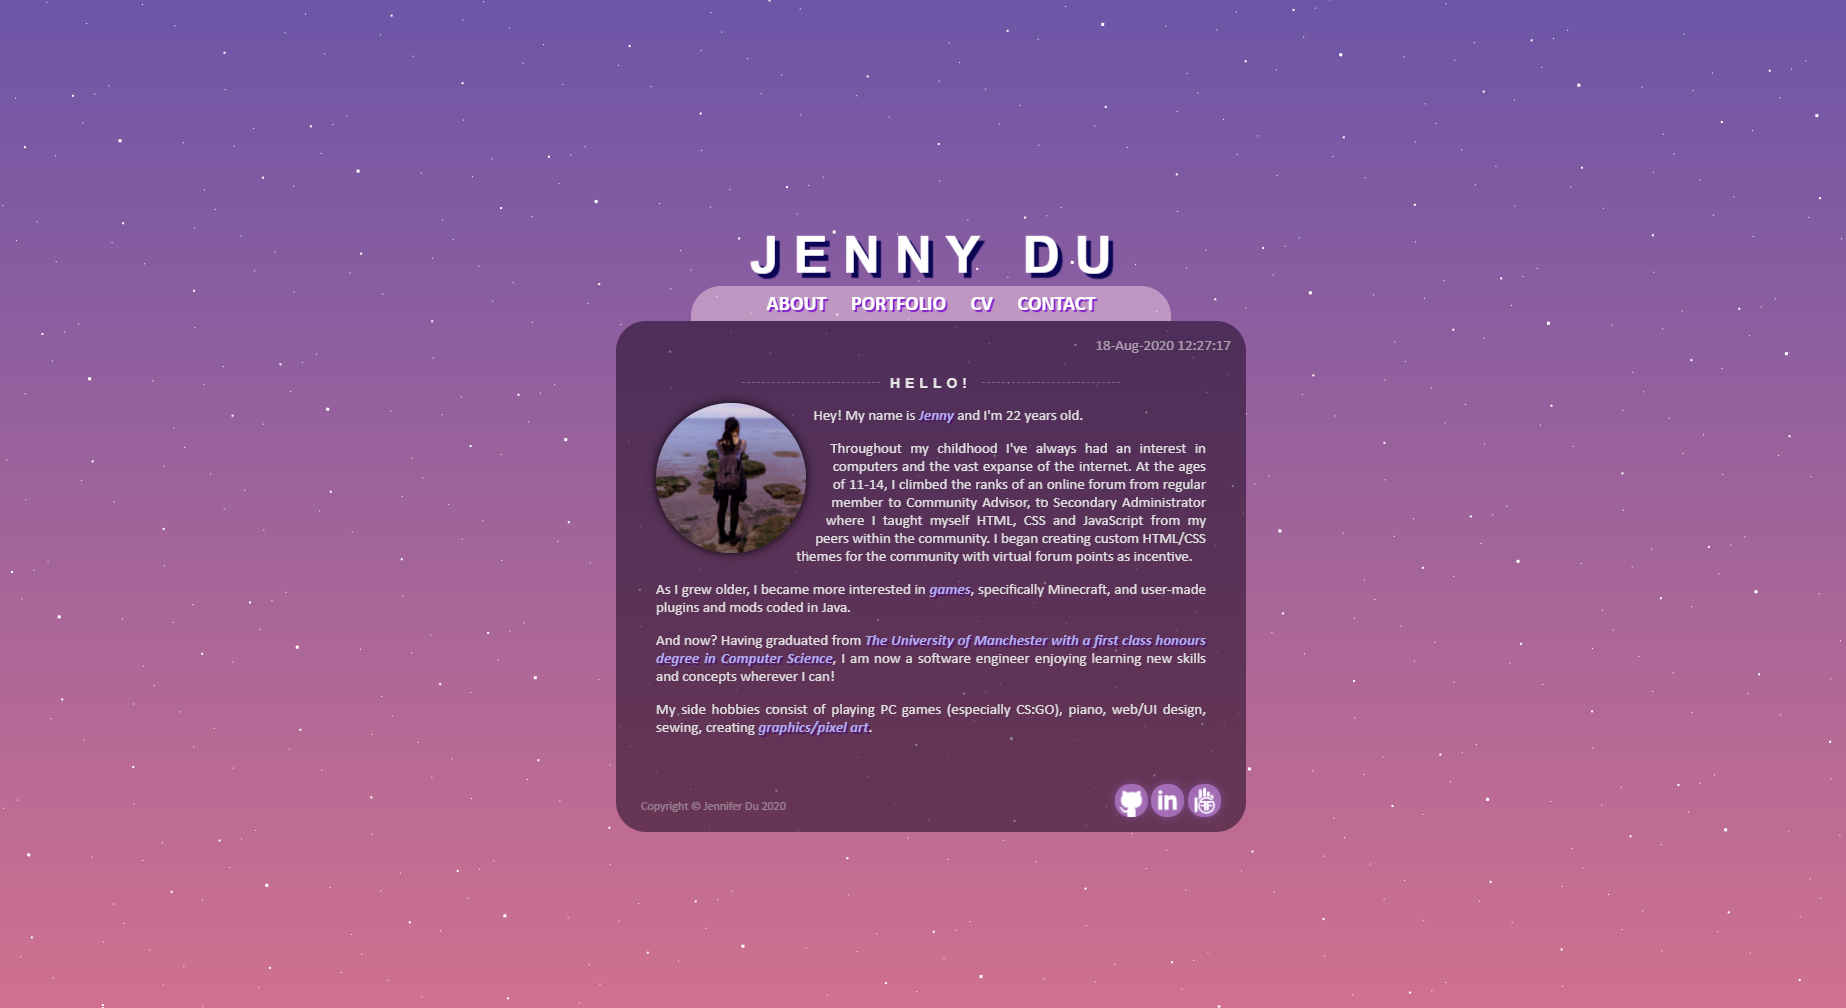
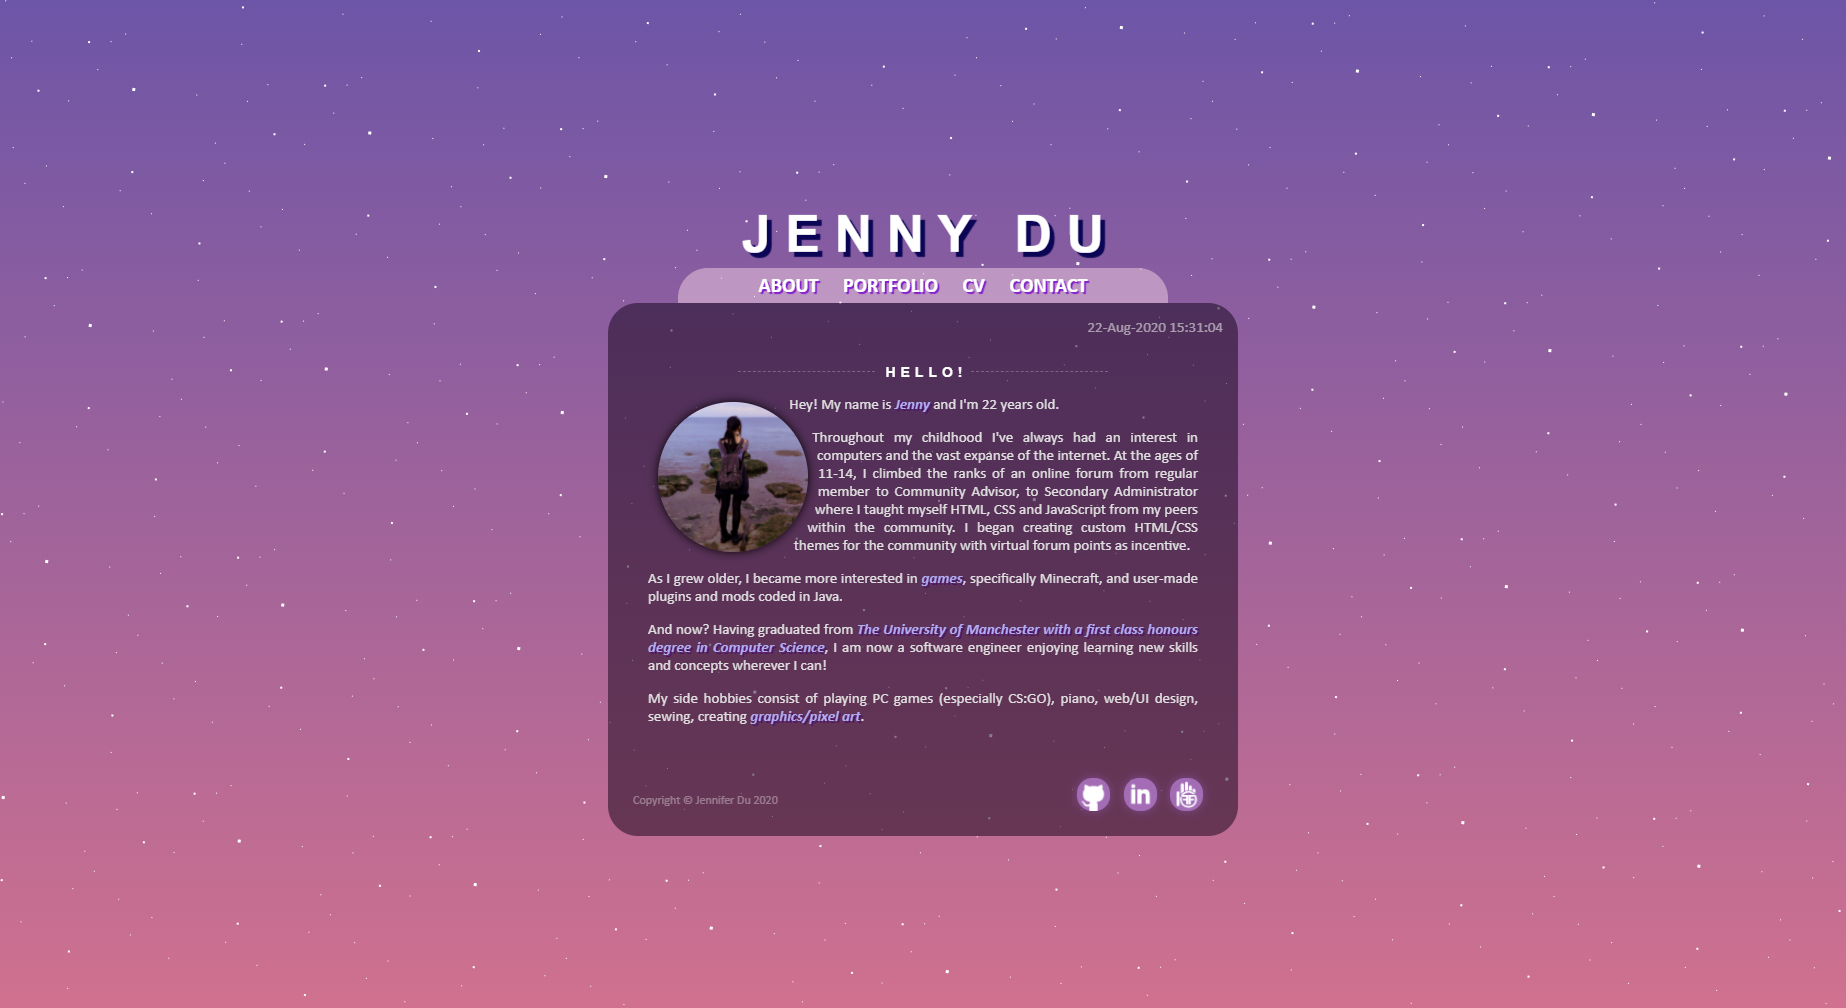
Minor changes.

Changed region(s): [[0.3088, 0.2153, 0.6793, 0.8304]]

diff --git a/style/main.css b/style/main.css
@@ -90,7 +90,7 @@ h2{
   letter-spacing:5px;
   font-size:14px;
   }
-h2:before,h2:after{
+h2:before,h2::after{
   content:"";
   border-top:1px rgba(255,255,255,0.25) dashed;
   width:25%;
@@ -98,7 +98,7 @@ h2:before,h2:after{
   margin:4px 10px;
   display:inline-block;
   }
-h2:after{
+h2::after{
   margin-left:3px;
   }
 h3,h3 a{
@@ -217,7 +217,7 @@ tbody tr td{
   color:#FFFFFF;
   text-shadow:2px 2px 1px #811CCE;
   }
-#menu a:after{
+#menu a::after{
   transition:all 0.5s ease-in-out;
   content:"";
   width:0px;
@@ -225,7 +225,7 @@ tbody tr td{
   display:block;
   background-color:#752EAB;
   }
-#menu a:hover:after{
+#menu a:hover::after,#menu a:active::after{
   width:100%;
   }
 #content{
@@ -288,12 +288,6 @@ tbody tr td{
     content:url("icon/blueexternallink.svg");
     position:relative;
     } */
-#fill img{
-  filter:brightness(85%);
-  }
-#fill img:hover{
-  filter:brightness(100%);
-  }
 #footer{
   padding:10px;
   }
@@ -362,7 +356,7 @@ tbody tr td{
   h1{
     font-size:10vw;
     }
-  h2:before,h2:after{
+  h2:before,h2::after{
     width:10%;
     }
 }
